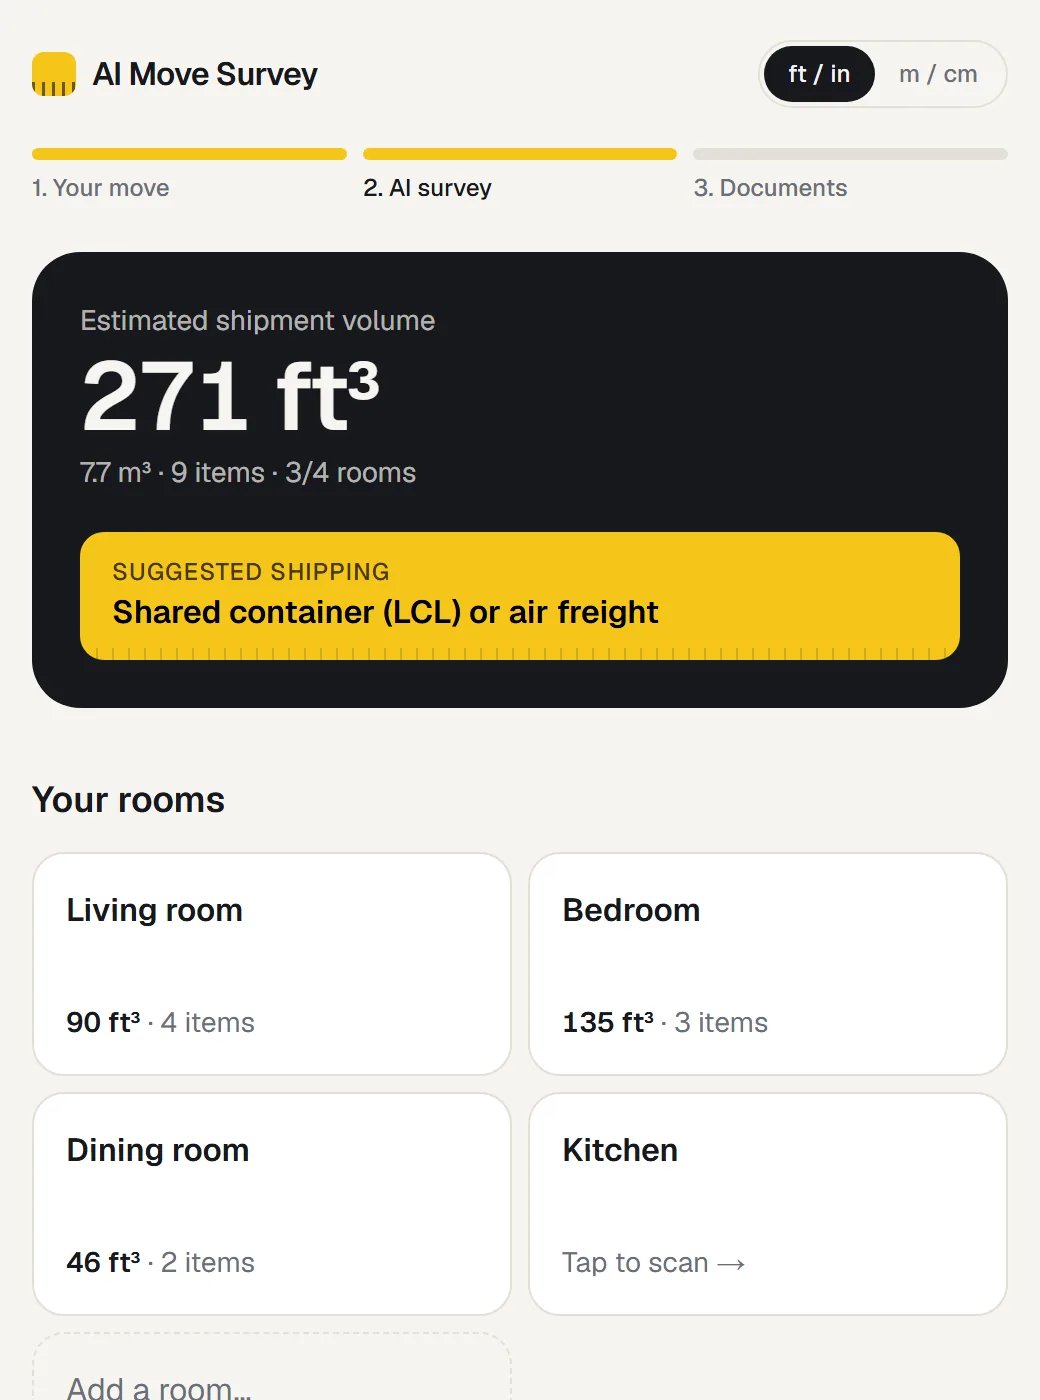
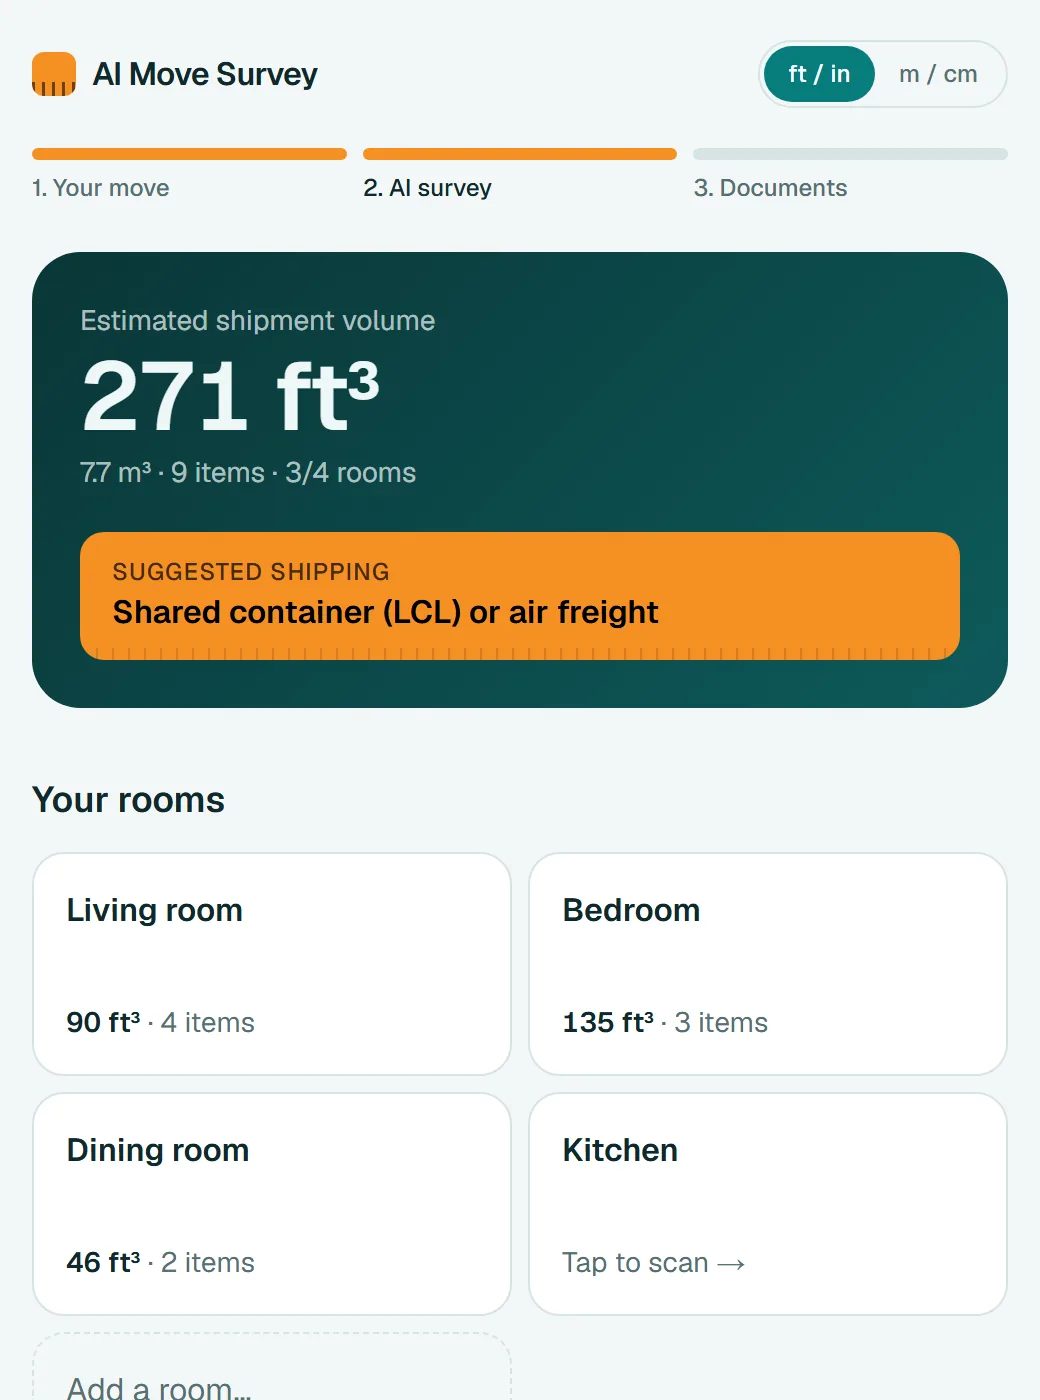
Brand refresh: deep teal and orange instead of grey and yellow
Teal primary buttons, dark-teal gradient panels and a soft hero glow, in light and dark mode, matching the client's moving-to-usa colours. App screenshots on the landing page recaptured.

diff --git a/web/src/app/page.tsx b/web/src/app/page.tsx
@@ -76,7 +76,7 @@ export default function Home() {
           </nav>
           <a
             href="#start"
-            className="rounded-full bg-[var(--ink)] px-4 py-2 text-sm font-semibold text-[var(--paper)] transition hover:opacity-90 active:scale-[0.98]"
+            className="rounded-full bg-[var(--primary)] px-4 py-2 text-sm font-semibold text-[var(--on-primary)] transition hover:opacity-90 active:scale-[0.98]"
           >
             Get started
           </a>
@@ -85,10 +85,11 @@ export default function Home() {
 
       <main>
         {/* Hero: the client wants the form on the first screen. */}
+        <div className="hero-glow">
         <section className="mx-auto grid max-w-6xl gap-10 px-4 pb-16 pt-10 sm:px-6 lg:grid-cols-[1fr_minmax(0,480px)] lg:items-center lg:gap-16 lg:pt-16">
           <div className="fade-up">
             <h1 className="text-4xl font-semibold leading-[1.05] tracking-tighter sm:text-5xl lg:text-6xl">
-              Measure your home with your phone.
+              Measure your home <span className="text-[var(--primary)]">with your phone.</span>
             </h1>
             <p className="mt-5 max-w-[46ch] text-lg leading-relaxed text-[var(--muted)]">
               Record each room on your phone. AI measures your furniture and lists the customs documents for your route.
@@ -104,6 +105,7 @@ export default function Home() {
             <MoveForm />
           </div>
         </section>
+        </div>
 
         <section aria-label="Countries covered" className="border-y border-[var(--line)] bg-[var(--card)]">
           <div className="mx-auto flex max-w-6xl flex-col gap-4 px-4 py-6 sm:px-6 md:flex-row md:items-center md:gap-8">
@@ -141,7 +143,7 @@ export default function Home() {
         <section className="mx-auto max-w-6xl px-4 pb-20 sm:px-6 md:pb-28">
           <h2 className="max-w-[20ch] text-3xl font-semibold tracking-tight sm:text-4xl">No home visit. No tape measure. No guesswork.</h2>
           <div className="mt-10 grid gap-3 md:grid-cols-6">
-            <div className="flex min-h-64 flex-col justify-between rounded-3xl bg-[var(--night)] p-7 text-[var(--on-night)] md:col-span-4">
+            <div className="flex min-h-64 flex-col justify-between rounded-3xl night-panel p-7 text-[var(--on-night)] md:col-span-4">
               <Cube size={32} weight="duotone" />
               <div>
                 <h3 className="text-2xl font-semibold tracking-tight">Measured in 3D, not guessed</h3>
@@ -215,7 +217,7 @@ export default function Home() {
         </section>
 
         <section className="mx-auto max-w-6xl px-4 pb-20 sm:px-6">
-          <div className="tape flex flex-col items-start justify-between gap-6 rounded-3xl bg-[var(--night)] p-8 text-[var(--on-night)] sm:p-12 md:flex-row md:items-center">
+          <div className="night-panel flex flex-col items-start justify-between gap-6 rounded-3xl p-8 text-[var(--on-night)] sm:p-12 md:flex-row md:items-center">
             <div>
               <h2 className="text-3xl font-semibold tracking-tight">Plan your move tonight</h2>
               <p className="mt-2 opacity-70">Start with your route. Scan your rooms whenever you are ready.</p>
@@ -261,7 +263,7 @@ function Tile({ icon, title, children }: { icon: ReactNode; title: string; child
 function PhoneShot({ src, alt, className = "" }: { src: string; alt: string; className?: string }) {
   return (
     <div className={`relative mx-auto w-full max-w-[340px] ${className}`}>
-      <div className="absolute -inset-6 -z-10 rounded-[3rem] bg-[var(--tape)]/25 blur-2xl" aria-hidden />
+      <div className="absolute -inset-6 -z-10 rounded-[3rem] bg-[var(--primary)]/20 blur-3xl" aria-hidden />
       <div className="overflow-hidden rounded-[2.5rem] border-[10px] border-[#16181d] bg-[#16181d] shadow-[0_30px_80px_-30px_rgb(22_24_29/0.5)]">
         <Image src={src} alt={alt} width={1040} height={1400} sizes="340px" className="h-auto w-full rounded-[1.75rem]" />
       </div>

diff --git a/web/src/components/SurveyApp.tsx b/web/src/components/SurveyApp.tsx
@@ -54,7 +54,7 @@ function Survey() {
     <div className="mx-auto w-full max-w-2xl px-4 pb-16 pt-[max(1.25rem,env(safe-area-inset-top))]">
       <StepHeader step={1} right={<UnitToggle units={units} onChange={setUnits} />} />
 
-      <section className="mt-6 rounded-3xl bg-[var(--ink)] p-6 text-[var(--paper)]">
+      <section className="mt-6 night-panel rounded-3xl p-6 text-[var(--on-night)]">
         <p className="text-sm opacity-70">Estimated shipment volume</p>
         <p className="mt-1 text-5xl font-semibold tabular-nums tracking-tight">{formatVolume(total, units)}</p>
         <p className="mt-1 text-sm opacity-70">
@@ -90,7 +90,7 @@ function Survey() {
             <li key={r.id}>
               <button
                 onClick={() => setOpenId(r.id)}
-                className="flex h-full min-h-28 w-full flex-col justify-between rounded-2xl border border-[var(--line)] bg-[var(--card)] p-4 text-left transition hover:border-[var(--ink)]"
+                className="flex h-full min-h-28 w-full flex-col justify-between rounded-2xl border border-[var(--line)] bg-[var(--card)] p-4 text-left transition hover:border-[var(--primary)]"
               >
                 <span className="font-semibold">{r.name}</span>
                 <RoomStatus room={r} units={units} />
@@ -123,7 +123,7 @@ function Survey() {
 
       {itemCount > 0 && (
         <section className="mt-6 flex flex-wrap gap-2">
-          <button onClick={() => downloadCsv(rooms)} className="rounded-full bg-[var(--ink)] px-4 py-2.5 text-sm font-medium text-[var(--paper)]">
+          <button onClick={() => downloadCsv(rooms)} className="rounded-full bg-[var(--primary)] px-4 py-2.5 text-sm font-medium text-[var(--on-primary)]">
             Download inventory (CSV)
           </button>
           <button
@@ -139,7 +139,7 @@ function Survey() {
         <Link href="/" className="rounded-full border border-[var(--line)] px-5 py-3 text-sm font-medium">
           ← Back
         </Link>
-        <Link href="/summary" className="rounded-full bg-[var(--ink)] px-6 py-3 text-sm font-semibold text-[var(--paper)]">
+        <Link href="/summary" className="rounded-full bg-[var(--primary)] px-6 py-3 text-sm font-semibold text-[var(--on-primary)]">
           Next: documents →
         </Link>
       </nav>
@@ -185,7 +185,7 @@ function UnitToggle({ units, onChange }: { units: Units; onChange: (u: Units) =>
           key={u}
           onClick={() => onChange(u)}
           aria-pressed={units === u}
-          className={`rounded-full px-3 py-1.5 ${units === u ? "bg-[var(--ink)] text-[var(--paper)]" : "text-[var(--muted)]"}`}
+          className={`rounded-full px-3 py-1.5 ${units === u ? "bg-[var(--primary)] text-[var(--on-primary)]" : "text-[var(--muted)]"}`}
         >
           {u === "imperial" ? "ft / in" : "m / cm"}
         </button>

diff --git a/web/src/components/RoomSheet.tsx b/web/src/components/RoomSheet.tsx
@@ -73,7 +73,7 @@ export default function RoomSheet({ room, units, survey, onClose }: Props) {
             )}
             <button
               onClick={() => setCamera(true)}
-              className="flex w-full items-center gap-4 rounded-2xl bg-[var(--ink)] p-5 text-left text-[var(--paper)]"
+              className="flex w-full items-center gap-4 rounded-2xl bg-[var(--primary)] p-5 text-left text-[var(--on-primary)]"
             >
               <span className="flex h-12 w-12 shrink-0 items-center justify-center rounded-full bg-[var(--tape)] text-2xl text-black">
                 â—
@@ -144,7 +144,7 @@ export default function RoomSheet({ room, units, survey, onClose }: Props) {
                         survey.addItem(room.id, c);
                         setAdding(false);
                       }}
-                      className="rounded-full border border-[var(--line)] px-3 py-1.5 text-sm hover:border-[var(--ink)]"
+                      className="rounded-full border border-[var(--line)] px-3 py-1.5 text-sm hover:border-[var(--primary)]"
                     >
                       {c.label}
                     </button>
@@ -154,7 +154,7 @@ export default function RoomSheet({ room, units, survey, onClose }: Props) {
             ) : (
               <button
                 onClick={() => setAdding(true)}
-                className="w-full rounded-2xl border border-dashed border-[var(--line)] p-4 text-sm font-medium text-[var(--muted)] hover:border-[var(--ink)] hover:text-[var(--ink)]"
+                className="w-full rounded-2xl border border-dashed border-[var(--line)] p-4 text-sm font-medium text-[var(--muted)] hover:border-[var(--primary)] hover:text-[var(--ink)]"
               >
                 + Add an item the camera missed (boxes, lampsâ€¦)
               </button>
@@ -169,7 +169,7 @@ export default function RoomSheet({ room, units, survey, onClose }: Props) {
             <button onClick={onClose} className="rounded-full border border-[var(--line)] px-5 py-3 text-sm font-medium">
               â† All rooms
             </button>
-            <Link href="/summary" className="rounded-full bg-[var(--ink)] px-6 py-3 text-sm font-semibold text-[var(--paper)]">
+            <Link href="/summary" className="rounded-full bg-[var(--primary)] px-6 py-3 text-sm font-semibold text-[var(--on-primary)]">
               Next: documents â†’
             </Link>
           </div>

diff --git a/web/src/app/globals.css b/web/src/app/globals.css
@@ -1,43 +1,66 @@
 @import "tailwindcss";
 
+/* Brand: deep teal with a warm orange highlight (as on the client's
+   moving-to-usa site). */
 :root {
-  --paper: #f6f4ef;
+  --paper: #f3f7f7;
   --card: #ffffff;
-  --ink: #16181d;
-  --muted: #6b6f78;
-  --line: #e2dfd7;
-  --chip: #eeebe4;
-  --tape: #f5c518; /* measuring-tape yellow */
-  --accent: #9a6b00;
+  --ink: #10292b;
+  --muted: #557073;
+  --line: #d6e4e4;
+  --chip: #e5efef;
+  --primary: #077d7d;
+  --on-primary: #ffffff;
+  --tape: #f59024; /* highlight orange, also the logo's tape */
+  --accent: #077d7d;
   --ok: #1f7a3f;
   --ok-bg: #e3f3e8;
   --warn: #8a5a00;
   --warn-bg: #fdf0d2;
   --bad: #b42318;
   --bad-bg: #fde8e6;
-  /* Dark feature surfaces that stay dark in both themes */
-  --night: #16181d;
-  --on-night: #f6f4ef;
+  /* Feature panels stay dark teal in both themes */
+  --night-a: #0a3637;
+  --night-b: #0e5a5b;
+  --on-night: #eef7f6;
+  --glow-a: rgb(8 152 152 / 0.16);
+  --glow-b: rgb(245 144 36 / 0.1);
 }
 
 @media (prefers-color-scheme: dark) {
   :root {
-    --paper: #121212;
-    --card: #1b1c1f;
-    --ink: #f2f0ea;
-    --muted: #9a9ca3;
-    --line: #2c2e33;
-    --chip: #24262a;
-    --accent: #f5c518;
+    --paper: #0a1617;
+    --card: #102224;
+    --ink: #e7f1f0;
+    --muted: #8ea8a9;
+    --line: #1e3537;
+    --chip: #172c2e;
+    --primary: #19b5b5;
+    --on-primary: #03201f;
+    --tape: #f79a35;
+    --accent: #4fd0cf;
     --ok: #6fd394;
     --ok-bg: #16301f;
     --warn: #f2c35b;
     --warn-bg: #33280f;
     --bad: #ff8a80;
     --bad-bg: #3a1714;
-    --night: #24262b;
-    --on-night: #f2f0ea;
+    --night-a: #0d2e30;
+    --night-b: #11494a;
+    --on-night: #e7f1f0;
+    --glow-a: rgb(25 181 181 / 0.14);
+    --glow-b: rgb(247 154 53 / 0.07);
   }
+}
+
+.night-panel {
+  background: linear-gradient(135deg, var(--night-a), var(--night-b));
+}
+
+.hero-glow {
+  background:
+    radial-gradient(60% 70% at 85% 10%, var(--glow-a), transparent 70%),
+    radial-gradient(45% 60% at 0% 100%, var(--glow-b), transparent 70%);
 }
 
 @theme inline {

diff --git a/web/src/components/MoveForm.tsx b/web/src/components/MoveForm.tsx
@@ -9,7 +9,7 @@ import { MOVE_TYPES, type MoveDetails, loadMove, saveMove, useIsClient } from "@
 const EMPTY: MoveDetails = { name: "", email: "", phone: "", from: "", to: "", date: "", moveType: "full" };
 
 const inputClass =
-  "mt-1.5 w-full rounded-xl border border-[var(--line)] bg-[var(--paper)] px-3 py-2.5 text-base text-[var(--ink)] outline-none transition focus:border-[var(--ink)] focus:ring-2 focus:ring-[var(--tape)]/40";
+  "mt-1.5 w-full rounded-xl border border-[var(--line)] bg-[var(--paper)] px-3 py-2.5 text-base text-[var(--ink)] outline-none transition focus:border-[var(--primary)] focus:ring-2 focus:ring-[var(--primary)]/25";
 
 /** The move-details form: step 1 of the flow, shown in the landing page hero. */
 export default function MoveForm() {
@@ -85,7 +85,7 @@ function Form() {
                 aria-pressed={move.moveType === t.value}
                 onClick={() => set("moveType", t.value)}
                 className={`rounded-lg px-1 py-1.5 text-xs font-medium leading-tight transition ${
-                  move.moveType === t.value ? "bg-[var(--ink)] text-[var(--paper)]" : "text-[var(--muted)] hover:text-[var(--ink)]"
+                  move.moveType === t.value ? "bg-[var(--primary)] text-[var(--on-primary)]" : "text-[var(--muted)] hover:text-[var(--ink)]"
                 }`}
               >
                 {t.label}
@@ -123,7 +123,7 @@ function Form() {
         </p>
       )}
 
-      <button className="mt-5 flex w-full items-center justify-center gap-2 rounded-full bg-[var(--ink)] px-6 py-3.5 font-semibold text-[var(--paper)] transition hover:opacity-90 active:scale-[0.98]">
+      <button className="mt-5 flex w-full items-center justify-center gap-2 rounded-full bg-[var(--primary)] px-6 py-3.5 font-semibold text-[var(--on-primary)] transition hover:opacity-90 active:scale-[0.98]">
         Next: scan your rooms <ArrowRight size={18} weight="bold" />
       </button>
     </form>

diff --git a/web/src/components/MoveSummary.tsx b/web/src/components/MoveSummary.tsx
@@ -25,7 +25,7 @@ function MissingMove() {
       <div className="mt-10 rounded-3xl border border-[var(--line)] bg-[var(--card)] p-6 text-center">
         <p className="font-semibold">Tell us about your move first</p>
         <p className="mt-1 text-sm text-[var(--muted)]">We need your “moving from” and “moving to” countries to show the right documents.</p>
-        <Link href="/" className="mt-5 inline-block rounded-full bg-[var(--ink)] px-6 py-3 text-sm font-semibold text-[var(--paper)]">
+        <Link href="/" className="mt-5 inline-block rounded-full bg-[var(--primary)] px-6 py-3 text-sm font-semibold text-[var(--on-primary)]">
           Start here →
         </Link>
       </div>
@@ -59,7 +59,7 @@ function Summary({ move, from, to }: { move: MoveDetails; from: Country; to: Cou
         </p>
       </section>
 
-      <section className="mt-5 rounded-3xl bg-[var(--ink)] p-6 text-[var(--paper)]">
+      <section className="mt-5 night-panel rounded-3xl p-6 text-[var(--on-night)]">
         <p className="flex flex-wrap items-center gap-x-3 gap-y-1 text-lg font-semibold">
           <span>
             {from.name}
@@ -106,7 +106,7 @@ function Summary({ move, from, to }: { move: MoveDetails; from: Country; to: Cou
         <Link href="/survey" className="rounded-full border border-[var(--line)] px-5 py-3 text-sm font-medium">
           ← Back to survey
         </Link>
-        <button onClick={() => window.print()} className="rounded-full bg-[var(--ink)] px-6 py-3 text-sm font-semibold text-[var(--paper)]">
+        <button onClick={() => window.print()} className="rounded-full bg-[var(--primary)] px-6 py-3 text-sm font-semibold text-[var(--on-primary)]">
           Save as PDF
         </button>
       </nav>

diff --git a/web/src/app/layout.tsx b/web/src/app/layout.tsx
@@ -23,8 +23,8 @@ export const viewport: Viewport = {
   initialScale: 1,
   viewportFit: "cover",
   themeColor: [
-    { media: "(prefers-color-scheme: light)", color: "#f6f4ef" },
-    { media: "(prefers-color-scheme: dark)", color: "#121212" },
+    { media: "(prefers-color-scheme: light)", color: "#f3f7f7" },
+    { media: "(prefers-color-scheme: dark)", color: "#0a1617" },
   ],
 };
 
